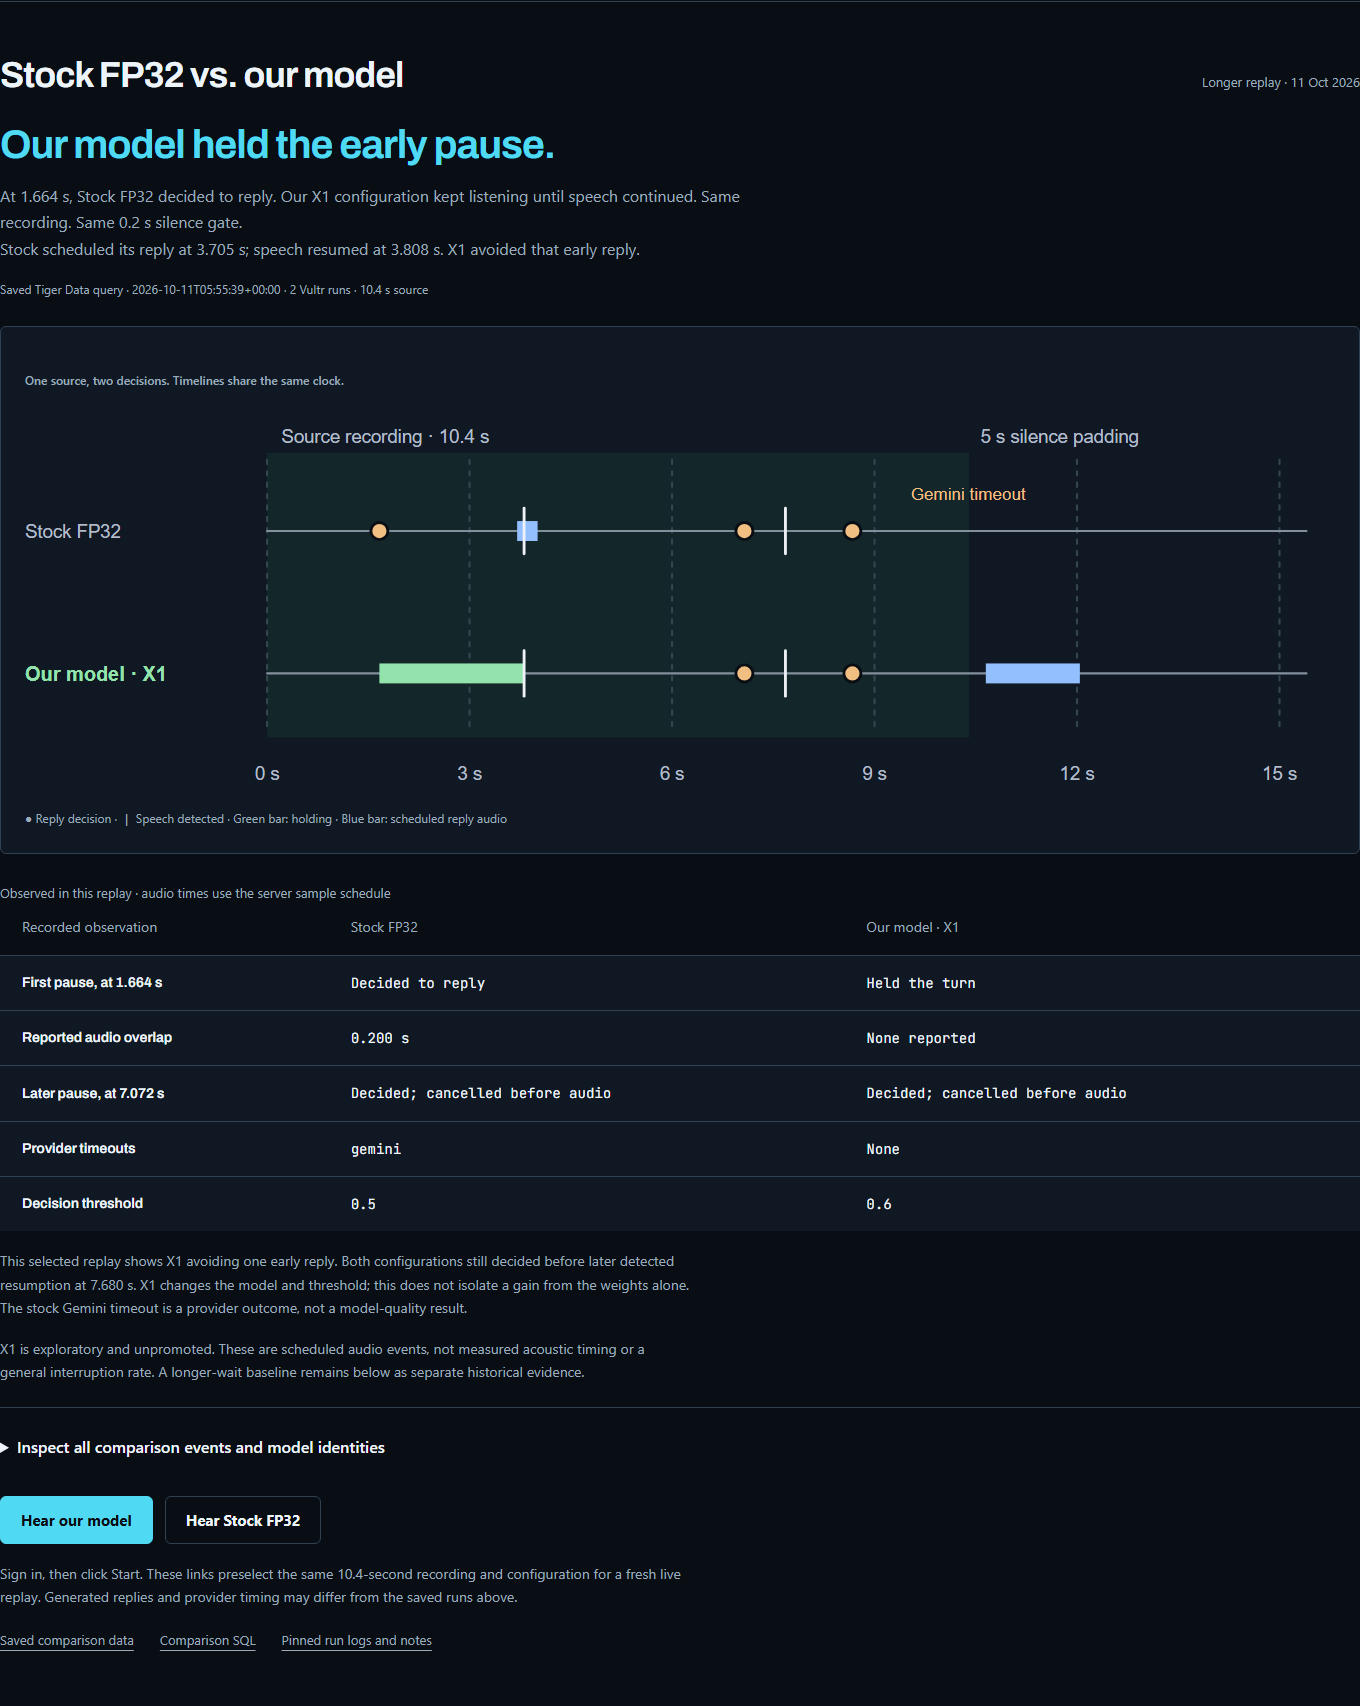
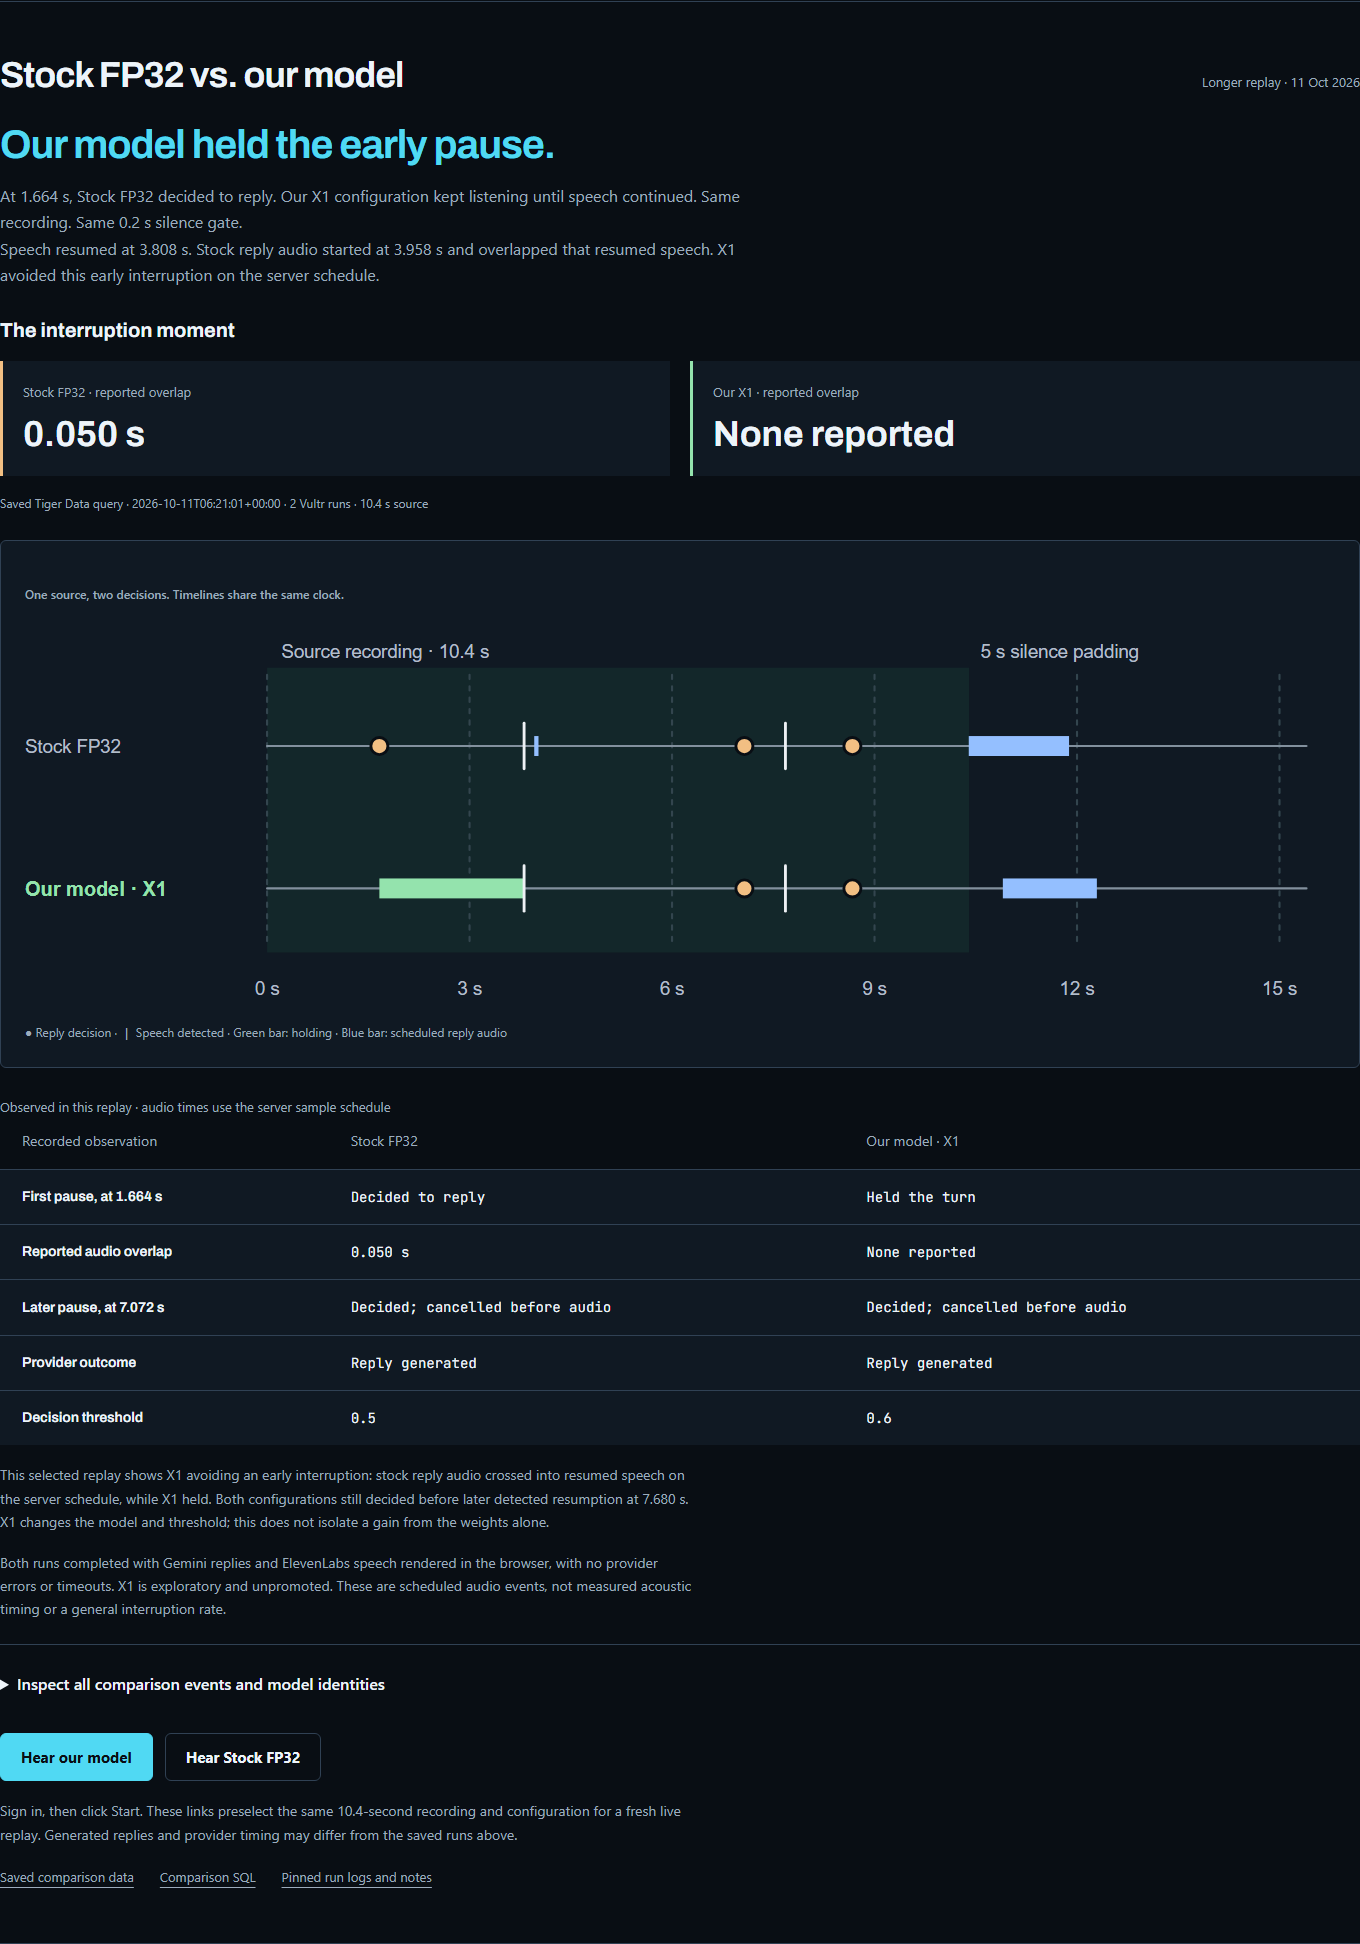
Verify deployed working model comparisons and updated provider deadline

diff --git a/docs/proofs/long-replay-judge/README.md b/docs/proofs/long-replay-judge/README.md
@@ -1,46 +1,39 @@
-# Longer replay judge guide verification — October 11, 2026
+# Current working judge comparisons - October 11, 2026
 
-Deployed static revision: `5175dcdb807a`. Backend remains `667460f45fdd`.
+Static revision: `7bdb1fc785f4`. Backend: `ed3d3ec93ce7`.
 URL: https://64-177-51-1.sslip.io/judge/#long-replay
 
-## Data
+The main figure uses the working 10.4 s Stock FP32/X1 pair from
+`agent/evidence/2026-10-11-long-replay-working`. Stock reports 0.050 s overlap;
+X1 reports none. Both produced browser speech with no provider errors/timeouts.
+The five-recording figure now includes both models on every source (10 runs),
+with listening presets. All displayed runs rendered source and generated
+speech in Chromium. The original Stock INT8/Patient summary remains secondary.
 
-The two complete run logs in
-[`agent/evidence/2026-10-11-long-replay`](../../../agent/evidence/2026-10-11-long-replay/README.md)
-were committed at `21acc2c` before ingest. Real Tiger Data ingestion reported
-22 runs / 353 events, including 10 superseded runs / 152 superseded events.
-The pair adds 51 events. `comparison.py` queried Tiger Data and verified every
-exported field against the source logs before writing `comparison.json`.
-The original historical `snapshot.json` was not changed.
+Tiger Data holds 37 runs / 631 events, including 10 superseded runs / 152
+superseded events and all retained earlier provider attempts. The two displayed
+query exports match their original saved logs. The historical snapshot and
+previous longer-pair export remain available; no raw log was modified.
 
-The primary figure shows X1 holding at 1.664 s where stock completes, and
-stock's reported 0.200 s overlap. Both later cancellations and the stock
-Gemini timeout remain present. Settings expose the equal silence gate and
-different model/threshold. No general improvement or acoustic timing claim.
+Validation:
+- 47 backend tests passed locally and on Vultr.
+- Six Python evidence checks passed, including both current datasets, fixed
+  historical scope and the retained earlier failure.
+- Seven comparison-browser scenarios passed; existing site checks 52/52 and
+  console checks 20/20 passed. Hosted connection scenarios also passed.
+- Deployed assets match their committed versions after line-ending normalization.
+- Public desktop/mobile pages have no errors, failed resources or page overflow.
+- Both longer replay presets connect and select the correct model/source;
+  page loading sends no run command. Authenticated controls remain protected.
+- Twelve selected replay runs have nonzero source/reply digital audio and no
+  provider failures. Earlier failed attempts are documented in the proof packets.
 
-## Verification
+`verification.json` records deployed asset and browser checks. Screenshots
+cover both current figures at 1440 and 390 pixels. Provider/audio verification
+is in `../gemini-empty-recovery/` and `../five-model-replays/`. This does not
+measure acoustic timing or establish model efficacy or service reliability.
 
-- Four Python evidence tests pass: exact selected runs, metadata mismatch
-  rejection, unchanged five-clip scope, and SQL-export equivalence to logs.
-- Seven intercepted-browser scenarios pass: desktop, mobile, unavailable
-  snapshot, missing provenance, both replay presets, and invalid preset input.
-- Existing site checks: 52/52; console browser checks: 20/20; hosted connection
-  scenarios: healthy, unavailable, authentication, dropped connection all pass.
-- Deployed assets match the committed versions (normalizing line endings).
-- Anonymous desktop (1440 px) and mobile (390 px) landing/judge loads have no
-  script errors, failed resources or page overflow. Screenshots are included.
-- Both authenticated live presets select the longer source and correct model,
-  enable Start, and send zero run commands on page load. No paid runs were
-  started by this verification. Source/reply audio transport is unchanged;
-  this check does not claim new human listening or acoustic measurement.
-- Anonymous `/live/`, `/demo-ui/app.js` and `/v0/health` continue to return 401.
-- Authenticated backend health reports services on and `pcm16-v1` browser audio.
-
-Details: [`verification.json`](verification.json). The exported database snapshot
-is saved evidence; new cloud runs are still ingested explicitly. Listening
-buttons start fresh runs after the visitor clicks Start, not playback of PCM
-from the saved logs.
-
-Deployment backed up replaced static files under
-`/opt/stutterturn/backups/5175dcdb807a/previous`. No service restart, Caddy change,
-provider-setting change, or database credential transfer was needed.
+Replaced static files were backed up under
+`/opt/stutterturn/backups/7bdb1fc785f4/previous`. Backend rollback material is
+under `/opt/stutterturn/backups/ed3d3ec93ce7`. Keys stayed server-side; Tiger
+credentials remained local and did not move to the VPS or browser.
